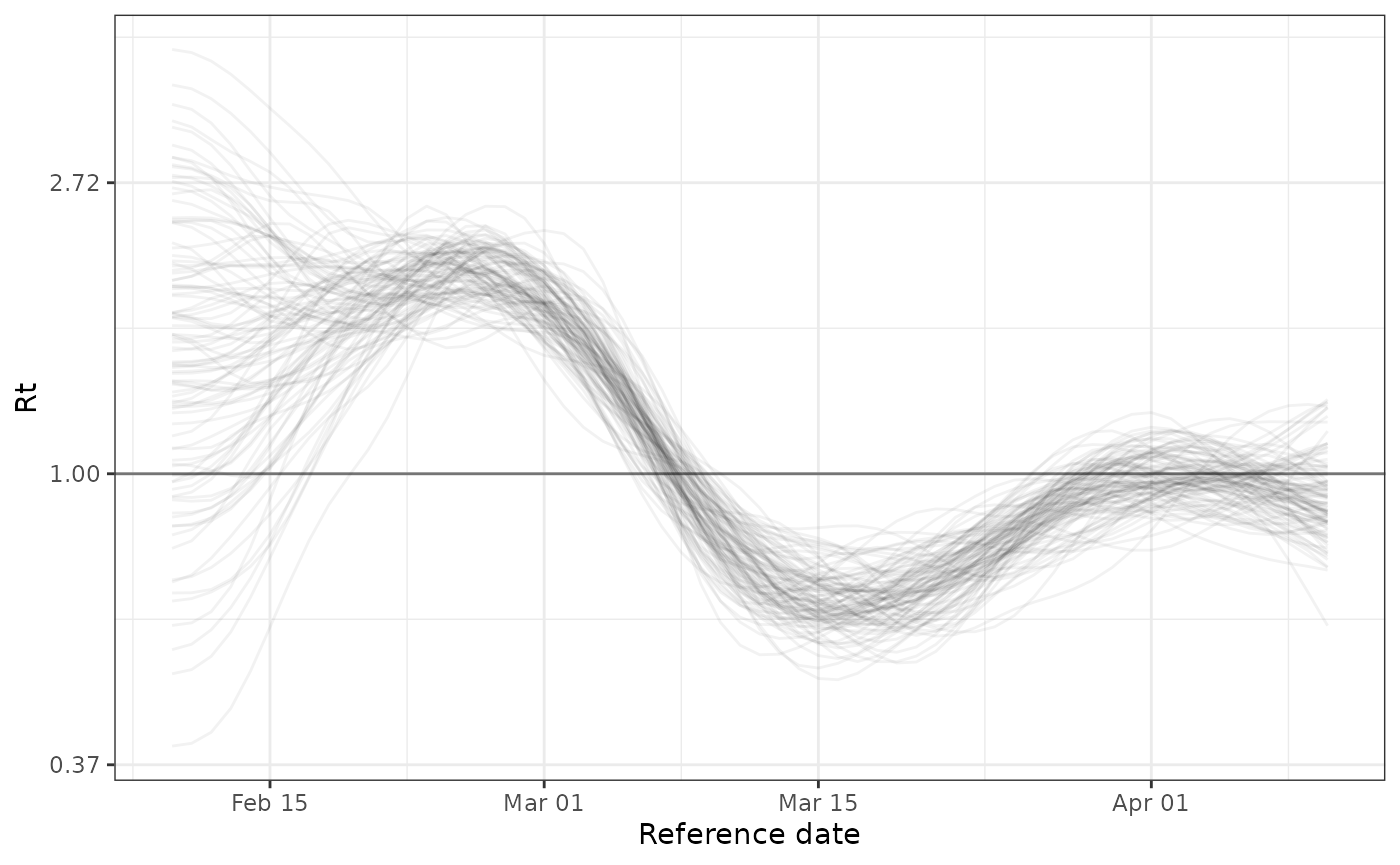
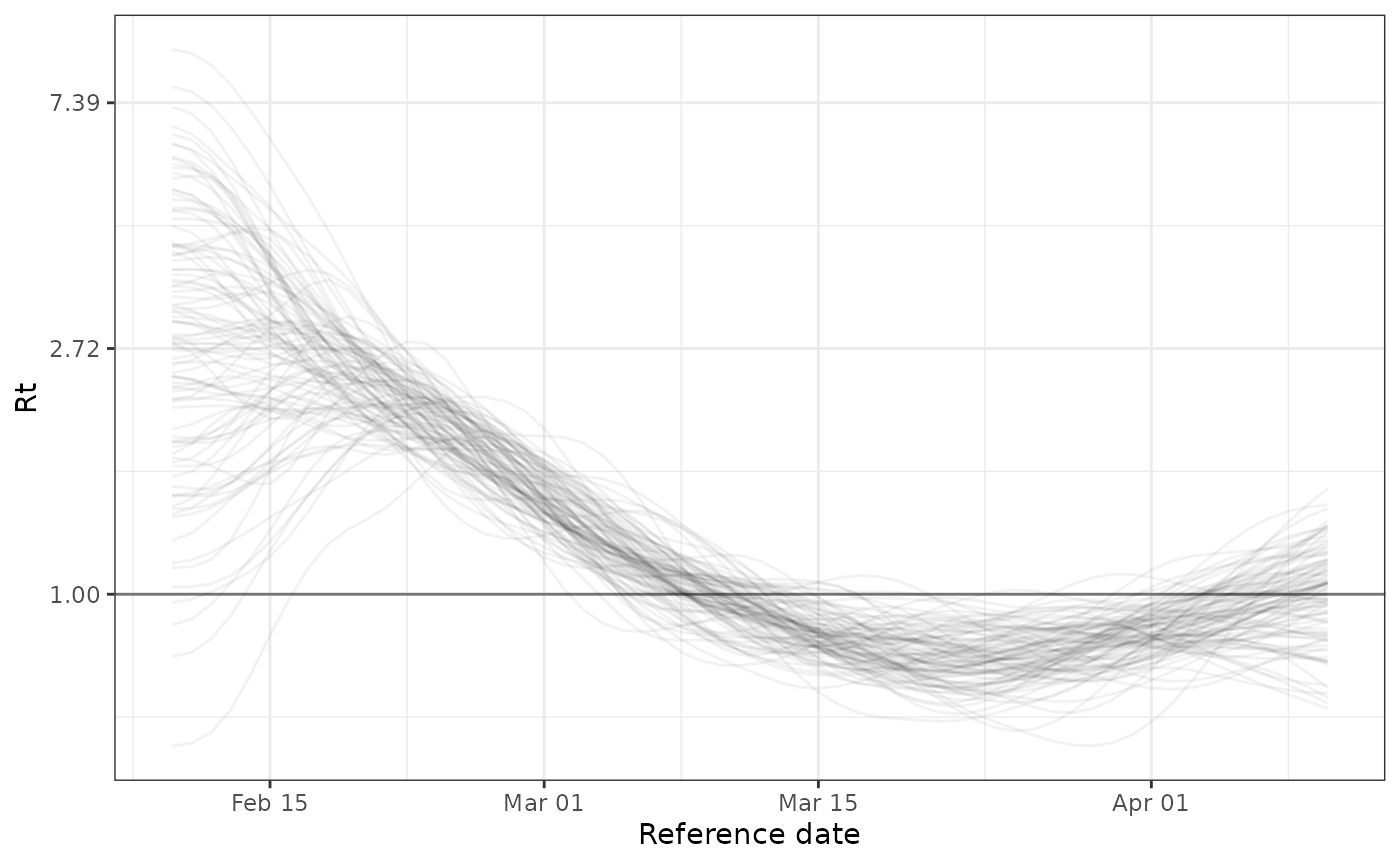
Deploying to gh-pages from @ zsusswein/cfa-gam-rt@5d7f019ca9e8a77d2bcbd57f7bd2ab68133076cc 🚀

diff --git a/articles/RtGam.html b/articles/RtGam.html
@@ -85,14 +85,14 @@ loaded. This vignette uses <code>ggplot2</code>.</p>
 incident case counts. For demonstration purposes, the package includes a
 simulated epidemic dataset, <code>stochastic_sir_rt</code>, adapted from
 <span class="citation">Gostic et al. (2020)</span>.</p>
-<p>In this example dataset, <code>obs_incidence</code> is the vector of
-observed case counts, and <code>date</code> is the corresponding vector
-of dates. The dataset has a timeseries of 299 days that we’ll subset to
-60 days to make plotting easier.</p>
+<p>In this example dataset, <code>obs_cases</code> is the vector of
+observed case counts, and <code>reference_date</code> is the
+corresponding vector of dates. The dataset has a timeseries of 299 days
+that we’ll subset to 60 days to make plotting easier.</p>
 <div class="sourceCode" id="cb2"><pre class="downlit sourceCode r">
 <code class="sourceCode R"><span><span class="va">data</span> <span class="op">&lt;-</span> <span class="va">stochastic_sir_rt</span><span class="op">[</span><span class="fl">41</span><span class="op">:</span><span class="fl">100</span>, <span class="op">]</span></span>
 <span><span class="fu"><a href="https://ggplot2.tidyverse.org/reference/ggplot.html" class="external-link">ggplot</a></span><span class="op">(</span><span class="va">data</span><span class="op">)</span> <span class="op">+</span></span>
-<span>  <span class="fu"><a href="https://ggplot2.tidyverse.org/reference/geom_point.html" class="external-link">geom_point</a></span><span class="op">(</span><span class="fu"><a href="https://ggplot2.tidyverse.org/reference/aes.html" class="external-link">aes</a></span><span class="op">(</span><span class="va">date</span>, <span class="va">obs_incidence</span><span class="op">)</span><span class="op">)</span> <span class="op">+</span></span>
+<span>  <span class="fu"><a href="https://ggplot2.tidyverse.org/reference/geom_point.html" class="external-link">geom_point</a></span><span class="op">(</span><span class="fu"><a href="https://ggplot2.tidyverse.org/reference/aes.html" class="external-link">aes</a></span><span class="op">(</span><span class="va">reference_date</span>, <span class="va">obs_cases</span><span class="op">)</span><span class="op">)</span> <span class="op">+</span></span>
 <span>  <span class="fu"><a href="https://ggplot2.tidyverse.org/reference/ggtheme.html" class="external-link">theme_bw</a></span><span class="op">(</span><span class="op">)</span> <span class="op">+</span></span>
 <span>  <span class="fu"><a href="https://ggplot2.tidyverse.org/reference/labs.html" class="external-link">labs</a></span><span class="op">(</span>x <span class="op">=</span> <span class="st">"Reference date"</span>, y <span class="op">=</span> <span class="st">"Observed cases"</span><span class="op">)</span></span></code></pre></div>
 <p><img src="RtGam_files/figure-html/plot%20data-1.png" width="700"></p>
@@ -100,7 +100,7 @@ of dates. The dataset has a timeseries of 299 days that we’ll subset to
 timeseries.</p>
 <div class="sourceCode" id="cb3"><pre class="downlit sourceCode r">
 <code class="sourceCode R"><span><span class="fu"><a href="https://ggplot2.tidyverse.org/reference/ggplot.html" class="external-link">ggplot</a></span><span class="op">(</span><span class="va">data</span><span class="op">)</span> <span class="op">+</span></span>
-<span>  <span class="fu"><a href="https://ggplot2.tidyverse.org/reference/geom_point.html" class="external-link">geom_point</a></span><span class="op">(</span><span class="fu"><a href="https://ggplot2.tidyverse.org/reference/aes.html" class="external-link">aes</a></span><span class="op">(</span><span class="va">date</span>, <span class="va">true_rt</span><span class="op">)</span><span class="op">)</span> <span class="op">+</span></span>
+<span>  <span class="fu"><a href="https://ggplot2.tidyverse.org/reference/geom_point.html" class="external-link">geom_point</a></span><span class="op">(</span><span class="fu"><a href="https://ggplot2.tidyverse.org/reference/aes.html" class="external-link">aes</a></span><span class="op">(</span><span class="va">reference_date</span>, <span class="va">true_rt</span><span class="op">)</span><span class="op">)</span> <span class="op">+</span></span>
 <span>  <span class="fu"><a href="https://ggplot2.tidyverse.org/reference/ggtheme.html" class="external-link">theme_bw</a></span><span class="op">(</span><span class="op">)</span> <span class="op">+</span></span>
 <span>  <span class="fu"><a href="https://ggplot2.tidyverse.org/reference/labs.html" class="external-link">labs</a></span><span class="op">(</span>x <span class="op">=</span> <span class="st">"Reference date"</span>, y <span class="op">=</span> <span class="st">"True Rt"</span><span class="op">)</span> <span class="op">+</span></span>
 <span>  <span class="fu"><a href="https://ggplot2.tidyverse.org/reference/scale_continuous.html" class="external-link">scale_y_continuous</a></span><span class="op">(</span></span>
@@ -119,9 +119,14 @@ hyperparameters like the smoothing basis dimension and the penalty basis
 dimension.</p>
 <div class="sourceCode" id="cb4"><pre class="downlit sourceCode r">
 <code class="sourceCode R"><span><span class="va">fit</span> <span class="op">&lt;-</span> <span class="fu"><a href="../reference/RtGam.html">RtGam</a></span><span class="op">(</span></span>
-<span>  cases <span class="op">=</span> <span class="va">data</span><span class="op">[[</span><span class="st">"obs_incidence"</span><span class="op">]</span><span class="op">]</span>,</span>
-<span>  reference_date <span class="op">=</span> <span class="va">data</span><span class="op">[[</span><span class="st">"date"</span><span class="op">]</span><span class="op">]</span></span>
+<span>  cases <span class="op">=</span> <span class="va">data</span><span class="op">[[</span><span class="st">"obs_cases"</span><span class="op">]</span><span class="op">]</span>,</span>
+<span>  reference_date <span class="op">=</span> <span class="va">data</span><span class="op">[[</span><span class="st">"reference_date"</span><span class="op">]</span><span class="op">]</span></span>
 <span><span class="op">)</span></span>
+<span><span class="co">#&gt; <span style="color: #BBBB00;">!</span> k-index for one or more smooths is below 1</span></span>
+<span><span class="co">#&gt; <span style="color: #00BBBB;">•</span> k-index: <span style="color: #0000BB;">0.752</span></span></span>
+<span><span class="co">#&gt; <span style="color: #00BBBB;">•</span> Associated p-value: <span style="color: #0000BB;">0.03</span></span></span>
+<span><span class="co">#&gt; <span style="color: #BBBB00;">!</span> Suggests potential unmodeled residual trend. Inspect model and/or consider</span></span>
+<span><span class="co">#&gt;   increasing `k`</span></span>
 <span><span class="fu"><a href="https://rdrr.io/r/base/print.html" class="external-link">print</a></span><span class="op">(</span><span class="va">fit</span><span class="op">)</span></span>
 <span><span class="co">#&gt; ===============================</span></span>
 <span><span class="co">#&gt; Fitted RtGam model object (gam)</span></span>
@@ -129,7 +134,7 @@ dimension.</p>
 <span><span class="co">#&gt; </span></span>
 <span><span class="co">#&gt; Model type: Adaptive (m = 3)</span></span>
 <span><span class="co">#&gt; Specified maximum smoothing basis dimension: 25 </span></span>
-<span><span class="co">#&gt; Family: Negative Binomial(11.704) </span></span>
+<span><span class="co">#&gt; Family: Negative Binomial(4.741) </span></span>
 <span><span class="co">#&gt; Link function: log</span></span>
 <span><span class="co">#&gt; ===============================</span></span>
 <span><span class="co">#&gt; </span></span>
@@ -146,8 +151,8 @@ setting <code>m</code> to 1. See <code><a href="../reference/smooth_dim_heuristi
 dimensions are set and when to change them.</p>
 <div class="sourceCode" id="cb5"><pre class="downlit sourceCode r">
 <code class="sourceCode R"><span><span class="va">fit_non_adaptive</span> <span class="op">&lt;-</span> <span class="fu"><a href="../reference/RtGam.html">RtGam</a></span><span class="op">(</span></span>
-<span>  cases <span class="op">=</span> <span class="va">data</span><span class="op">[[</span><span class="st">"obs_incidence"</span><span class="op">]</span><span class="op">]</span>,</span>
-<span>  reference_date <span class="op">=</span> <span class="va">data</span><span class="op">[[</span><span class="st">"date"</span><span class="op">]</span><span class="op">]</span>,</span>
+<span>  cases <span class="op">=</span> <span class="va">data</span><span class="op">[[</span><span class="st">"obs_cases"</span><span class="op">]</span><span class="op">]</span>,</span>
+<span>  reference_date <span class="op">=</span> <span class="va">data</span><span class="op">[[</span><span class="st">"reference_date"</span><span class="op">]</span><span class="op">]</span>,</span>
 <span>  m <span class="op">=</span> <span class="fl">1</span></span>
 <span><span class="op">)</span></span>
 <span><span class="fu"><a href="https://rdrr.io/r/base/print.html" class="external-link">print</a></span><span class="op">(</span><span class="va">fit_non_adaptive</span><span class="op">)</span></span>
@@ -157,7 +162,7 @@ dimensions are set and when to change them.</p>
 <span><span class="co">#&gt; </span></span>
 <span><span class="co">#&gt; Model type: Non-adaptive (m = 1)</span></span>
 <span><span class="co">#&gt; Specified maximum smoothing basis dimension: 25 </span></span>
-<span><span class="co">#&gt; Family: Negative Binomial(11.702) </span></span>
+<span><span class="co">#&gt; Family: Negative Binomial(4.842) </span></span>
 <span><span class="co">#&gt; Link function: log</span></span>
 <span><span class="co">#&gt; ===============================</span></span>
 <span><span class="co">#&gt; </span></span>
@@ -180,12 +185,12 @@ timeseries of posterior predicted cases.</p>
 <div class="sourceCode" id="cb6"><pre class="downlit sourceCode r">
 <code class="sourceCode R"><span><span class="fu"><a href="https://rdrr.io/r/utils/head.html" class="external-link">head</a></span><span class="op">(</span><span class="fu"><a href="https://rdrr.io/r/stats/predict.html" class="external-link">predict</a></span><span class="op">(</span><span class="va">fit</span><span class="op">)</span><span class="op">)</span></span>
 <span><span class="co">#&gt;   reference_date .response .draw</span></span>
-<span><span class="co">#&gt; 1     2023-02-10      1244     1</span></span>
-<span><span class="co">#&gt; 2     2023-02-10      2010    86</span></span>
-<span><span class="co">#&gt; 3     2023-02-10       659    84</span></span>
-<span><span class="co">#&gt; 4     2023-02-10      1235    82</span></span>
-<span><span class="co">#&gt; 5     2023-02-10      1385    80</span></span>
-<span><span class="co">#&gt; 6     2023-02-10       744    24</span></span></code></pre></div>
+<span><span class="co">#&gt; 1     2023-02-10       849     1</span></span>
+<span><span class="co">#&gt; 2     2023-02-10      1812    86</span></span>
+<span><span class="co">#&gt; 3     2023-02-10       247    84</span></span>
+<span><span class="co">#&gt; 4     2023-02-10       217    82</span></span>
+<span><span class="co">#&gt; 5     2023-02-10       826    80</span></span>
+<span><span class="co">#&gt; 6     2023-02-10       320    24</span></span></code></pre></div>
 <p>Calling <code>plot</code> on the fitted model object also draws
 posterior samples and plots them against the provided timeseries of
 cases.</p>
@@ -238,7 +243,7 @@ to adjust to the abrupt increase in <span class="math inline">\(R_t\)</span> in 
 <span>  mean_delay <span class="op">=</span> <span class="fl">0</span>,</span>
 <span>  gi_pmf <span class="op">=</span> <span class="va">sir_gt_pmf</span></span>
 <span><span class="op">)</span> <span class="op">+</span></span>
-<span>  <span class="fu"><a href="https://ggplot2.tidyverse.org/reference/geom_point.html" class="external-link">geom_point</a></span><span class="op">(</span><span class="fu"><a href="https://ggplot2.tidyverse.org/reference/aes.html" class="external-link">aes</a></span><span class="op">(</span><span class="va">date</span>, <span class="va">true_rt</span><span class="op">)</span>, data <span class="op">=</span> <span class="va">data</span><span class="op">)</span></span></code></pre></div>
+<span>  <span class="fu"><a href="https://ggplot2.tidyverse.org/reference/geom_point.html" class="external-link">geom_point</a></span><span class="op">(</span><span class="fu"><a href="https://ggplot2.tidyverse.org/reference/aes.html" class="external-link">aes</a></span><span class="op">(</span><span class="va">reference_date</span>, <span class="va">true_rt</span><span class="op">)</span>, data <span class="op">=</span> <span class="va">data</span><span class="op">)</span></span></code></pre></div>
 <p><img src="RtGam_files/figure-html/plot%20Rt%20against%20data-1.png" width="700"></p>
 <p>Future development effort will aim to improve model performance on
 challenging datasets like this example.</p>

diff --git a/reference/stochastic_sir_rt.html b/reference/stochastic_sir_rt.html
@@ -1,11 +1,15 @@
 <!DOCTYPE html>
-<!-- Generated by pkgdown: do not edit by hand --><html lang="en"><head><meta http-equiv="Content-Type" content="text/html; charset=UTF-8"><meta charset="utf-8"><meta http-equiv="X-UA-Compatible" content="IE=edge"><meta name="viewport" content="width=device-width, initial-scale=1, shrink-to-fit=no"><title>Synthetic dataset of stochastic SIR system with known Rt — stochastic_sir_rt • RtGam</title><script src="../deps/jquery-3.6.0/jquery-3.6.0.min.js"></script><meta name="viewport" content="width=device-width, initial-scale=1, shrink-to-fit=no"><link href="../deps/bootstrap-5.3.1/bootstrap.min.css" rel="stylesheet"><script src="../deps/bootstrap-5.3.1/bootstrap.bundle.min.js"></script><link href="../deps/font-awesome-6.5.2/css/all.min.css" rel="stylesheet"><link href="../deps/font-awesome-6.5.2/css/v4-shims.min.css" rel="stylesheet"><script src="../deps/headroom-0.11.0/headroom.min.js"></script><script src="../deps/headroom-0.11.0/jQuery.headroom.min.js"></script><script src="../deps/bootstrap-toc-1.0.1/bootstrap-toc.min.js"></script><script src="../deps/clipboard.js-2.0.11/clipboard.min.js"></script><script src="../deps/search-1.0.0/autocomplete.jquery.min.js"></script><script src="../deps/search-1.0.0/fuse.min.js"></script><script src="../deps/search-1.0.0/mark.min.js"></script><script src="../deps/MathJax-3.2.2/tex-chtml.min.js"></script><!-- pkgdown --><script src="../pkgdown.js"></script><meta property="og:title" content="Synthetic dataset of stochastic SIR system with known Rt — stochastic_sir_rt"><meta name="description" content='A dataset from Gostic, Katelyn M., et al. "Practical considerations for
-measuring the effective reproductive number, Rt." PLoS Computational Biology
-16.12 (2020): e1008409. The data are simulated from a stochastic SEIR
-compartmental model.'><meta property="og:description" content='A dataset from Gostic, Katelyn M., et al. "Practical considerations for
-measuring the effective reproductive number, Rt." PLoS Computational Biology
-16.12 (2020): e1008409. The data are simulated from a stochastic SEIR
-compartmental model.'></head><body>
+<!-- Generated by pkgdown: do not edit by hand --><html lang="en"><head><meta http-equiv="Content-Type" content="text/html; charset=UTF-8"><meta charset="utf-8"><meta http-equiv="X-UA-Compatible" content="IE=edge"><meta name="viewport" content="width=device-width, initial-scale=1, shrink-to-fit=no"><title>Synthetic dataset of stochastic SIR system with known Rt — stochastic_sir_rt • RtGam</title><script src="../deps/jquery-3.6.0/jquery-3.6.0.min.js"></script><meta name="viewport" content="width=device-width, initial-scale=1, shrink-to-fit=no"><link href="../deps/bootstrap-5.3.1/bootstrap.min.css" rel="stylesheet"><script src="../deps/bootstrap-5.3.1/bootstrap.bundle.min.js"></script><link href="../deps/font-awesome-6.5.2/css/all.min.css" rel="stylesheet"><link href="../deps/font-awesome-6.5.2/css/v4-shims.min.css" rel="stylesheet"><script src="../deps/headroom-0.11.0/headroom.min.js"></script><script src="../deps/headroom-0.11.0/jQuery.headroom.min.js"></script><script src="../deps/bootstrap-toc-1.0.1/bootstrap-toc.min.js"></script><script src="../deps/clipboard.js-2.0.11/clipboard.min.js"></script><script src="../deps/search-1.0.0/autocomplete.jquery.min.js"></script><script src="../deps/search-1.0.0/fuse.min.js"></script><script src="../deps/search-1.0.0/mark.min.js"></script><script src="../deps/MathJax-3.2.2/tex-chtml.min.js"></script><!-- pkgdown --><script src="../pkgdown.js"></script><meta property="og:title" content="Synthetic dataset of stochastic SIR system with known Rt — stochastic_sir_rt"><meta name="description" content='A simulated dataset derived from Gostic, Katelyn M., et al. "Practical
+considerations for measuring the effective reproductive number, Rt."
+PLoS Computational Biology 16.12 (2020): e1008409. The data are simulated
+from a stochastic SEIR compartmental model. The original timeseries and Rt
+are available in the incidence and true_rt columns and with additional
+columns added or modified to increase noise and add a day-of-week effect.'><meta property="og:description" content='A simulated dataset derived from Gostic, Katelyn M., et al. "Practical
+considerations for measuring the effective reproductive number, Rt."
+PLoS Computational Biology 16.12 (2020): e1008409. The data are simulated
+from a stochastic SEIR compartmental model. The original timeseries and Rt
+are available in the incidence and true_rt columns and with additional
+columns added or modified to increase noise and add a day-of-week effect.'></head><body>
     <a href="#main" class="visually-hidden-focusable">Skip to contents</a>
 
 
@@ -41,10 +45,12 @@ compartmental model.'></head><body>
     </div>
 
     <div class="ref-description section level2">
-    <p>A dataset from Gostic, Katelyn M., et al. "Practical considerations for
-measuring the effective reproductive number, Rt." PLoS Computational Biology
-16.12 (2020): e1008409. The data are simulated from a stochastic SEIR
-compartmental model.</p>
+    <p>A simulated dataset derived from Gostic, Katelyn M., et al. "Practical
+considerations for measuring the effective reproductive number, Rt."
+PLoS Computational Biology 16.12 (2020): e1008409. The data are simulated
+from a stochastic SEIR compartmental model. The original timeseries and Rt
+are available in the <code>incidence</code> and <code>true_rt</code> columns and with additional
+columns added or modified to increase noise and add a day-of-week effect.</p>
     </div>
 
     <div class="section level2">
@@ -54,65 +60,57 @@ compartmental model.</p>
 
     <div class="section level2">
     <h2 id="format">Format<a class="anchor" aria-label="anchor" href="#format"></a></h2>
-    <p><code>stochastic_sir_rt</code> A data frame with 301 rows and 12 columns:</p><dl><dt>time</dt>
-<dd><p>Timestep of the discrete-time stochastic SEIR simulation</p></dd>
-
-<dt>date</dt>
-<dd><p>Added from the original Gostic, 2020 dataset. A date
-corresponding to the assigned <code>time</code>. Arbitrarily starts on January 1st,
-2023.</p></dd>
-
-<dt>S, E, I, R</dt>
-<dd><p>The realized state of the stochastic SEIR system</p></dd>
-
-<dt>dS, dEI, DIR</dt>
-<dd><p>The stochastic transition between compartments</p></dd>
-
-<dt>incidence</dt>
-<dd><p>The true incidence in the <code>I</code> compartment at time t</p></dd>
-
-<dt>obs_cases</dt>
-<dd><p>The observed number of cases at time t from
-forward-convolved incidence.</p></dd>
-
-<dt>obs_incidence</dt>
-<dd><p>Added from the original Gostic, 2020 dataset. The
-<code>incidence</code> column with added negative-binomial observation noise.
-Created with <code>set.seed(123456)</code> and the call
-<code>rnbinom(299, mu = [["incidence"]], size = 10)</code> Useful for
-testing.</p></dd>
-
-<dt>true_r0</dt>
-<dd><p>The initial R0 of the system (i.e., 2)</p></dd>
+    <p><code>stochastic_sir_rt</code> A data frame with 299 rows and 6 columns:</p><dl><dt>reference_date</dt>
+<dd><p>The date cases were observed.</p></dd>
 
 <dt>true_rt</dt>
-<dd><p>The known, true Rt of the epidemic system</p></dd>
+<dd><p>The known, true Rt of the epidemic system.</p></dd>
+
+<dt>dow</dt>
+<dd><p>The magnitude of the day-of-week effect added to the log of <code>incidence</code>.</p></dd>
+
+<dt>true_cases</dt>
+<dd><p>The true number of cases occurring on the <code>date</code> in the
+simulated system before observation noise or day-of-week effects.</p></dd>
+
+<dt>obs_cases</dt>
+<dd><p>The observed number of cases on <code>date</code> after the day-of-week
+reporting effect and observation noise have been applied to <code>true_cases</code>.</p></dd>
+
+<dt>obs_cases_no_dow</dt>
+<dd><p>The observed number of cases on <code>date</code> after observation
+noise has been applied to <code>true_cases</code>. It does not include a day of week effect.</p></dd>
 
 
 </dl></div>
     <div class="section level2">
     <h2 id="source">Source<a class="anchor" aria-label="anchor" href="#source"></a></h2>
-    <p><a href="https://github.com/cobeylab/Rt_estimation/tree/d9d8977ba8492ac1a3b8287d2f470b313bfb9f1d" class="external-link">https://github.com/cobeylab/Rt_estimation/tree/d9d8977ba8492ac1a3b8287d2f470b313bfb9f1d</a> # nolint
-<a href="https://github.com/CDCgov/cfa-epinow2-pipeline/pull/17" class="external-link">https://github.com/CDCgov/cfa-epinow2-pipeline/pull/17</a> # nolint</p>
+    <p><a href="https://github.com/cobeylab/Rt_estimation/tree/d9d8977ba8492ac1a3b8287d2f470b313bfb9f1d" class="external-link">https://github.com/cobeylab/Rt_estimation/tree/d9d8977ba8492ac1a3b8287d2f470b313bfb9f1d</a>
+<a href="https://github.com/CDCgov/cfa-epinow2-pipeline/pull/91" class="external-link">https://github.com/CDCgov/cfa-epinow2-pipeline/pull/91</a>
+<a href="https://github.com/CDCgov/cfa-epinow2-pipeline/pull/17" class="external-link">https://github.com/CDCgov/cfa-epinow2-pipeline/pull/17</a></p>
     </div>
     <div class="section level2">
     <h2 id="details">Details<a class="anchor" aria-label="anchor" href="#details"></a></h2>
     <p>This synthetic dataset has a number of desirable properties:</p><ol><li><p>The force of infection changes depending on the Rt, allowing for sudden
 changes in the Rt. This allows for modeling of sudden changes in infection
-dynamics, which might otherwise be difficult to capture. Rt estimation
-framework</p></li>
+dynamics, which might otherwise be difficult to capture.</p></li>
 <li><p>The realized Rt is known at each timepoint</p></li>
 <li><p>The dataset incorporates a simple generation interval and a reporting
 delay.</p></li>
 </ol><p>Gostic et al. benchmark the performance of a number of Rt estimation
 frameworks, providing practical guidance on how to use this dataset to
 evaluate Rt estimates.</p>
-<p>In practice, we've found that the amount of observation noise in the
-incidence and/or observed cases is often undesirably low for testing. Many
-empirical datasets are much noisier. As a result, models built with these
-settings in mind can perform poorly on this dataset or fail to converge. We
-manually add observation noise with <code>rnbinom(299, mu = stochastic_sir_rt[["obs_cases"]], size = 10)</code> and the random seed 123456 and
-store it in the <code>obs_incidence</code> column.</p>
+<p>In practice, we've found that the amount of observation noise is often
+undesirably low for testing. Many empirical datasets are much noisier. As a
+result, models built with these realistically noisy settings in mind can
+perform poorly on this dataset or fail to converge. To better reflect realistic
+settings, we manually add observation noise and a day-of-week reporting effect.</p>
+    </div>
+    <div class="section level2">
+    <h2 id="references">References<a class="anchor" aria-label="anchor" href="#references"></a></h2>
+    <p>Gostic, Katelyn M., et al. "Practical considerations for measuring the
+effective reproductive number, R t." PLoS computational biology 16.12
+(2020): e1008409.</p>
     </div>
 
   </main><aside class="col-md-3"><nav id="toc" aria-label="Table of contents"><h2>On this page</h2>

diff --git a/reference/plot.RtGam.html b/reference/plot.RtGam.html
@@ -82,9 +82,14 @@ with values closer to 0 producing more transparent lines.</p></dd>
     <div class="section level2">
     <h2 id="ref-examples">Examples<a class="anchor" aria-label="anchor" href="#ref-examples"></a></h2>
     <div class="sourceCode"><pre class="sourceCode r"><code><span class="r-in"><span><span class="va">fit</span> <span class="op">&lt;-</span> <span class="fu"><a href="RtGam.html">RtGam</a></span><span class="op">(</span></span></span>
-<span class="r-in"><span>  <span class="va">stochastic_sir_rt</span><span class="op">[[</span><span class="st">"obs_incidence"</span><span class="op">]</span><span class="op">]</span>,</span></span>
-<span class="r-in"><span>  <span class="va">stochastic_sir_rt</span><span class="op">[[</span><span class="st">"date"</span><span class="op">]</span><span class="op">]</span></span></span>
+<span class="r-in"><span>  <span class="va">stochastic_sir_rt</span><span class="op">[[</span><span class="st">"obs_cases"</span><span class="op">]</span><span class="op">]</span>,</span></span>
+<span class="r-in"><span>  <span class="va">stochastic_sir_rt</span><span class="op">[[</span><span class="st">"reference_date"</span><span class="op">]</span><span class="op">]</span></span></span>
 <span class="r-in"><span><span class="op">)</span></span></span>
+<span class="r-msg co"><span class="r-pr">#&gt;</span> <span style="color: #BBBB00;">!</span> k-index for one or more smooths is below 1</span>
+<span class="r-msg co"><span class="r-pr">#&gt;</span> <span style="color: #00BBBB;">•</span> k-index: <span style="color: #0000BB;">0.844</span></span>
+<span class="r-msg co"><span class="r-pr">#&gt;</span> <span style="color: #00BBBB;">•</span> Associated p-value: <span style="color: #0000BB;">0</span></span>
+<span class="r-msg co"><span class="r-pr">#&gt;</span> <span style="color: #BBBB00;">!</span> Suggests potential unmodeled residual trend. Inspect model and/or consider</span>
+<span class="r-msg co"><span class="r-pr">#&gt;</span>   increasing `k`</span>
 <span class="r-in"><span><span class="co"># Plot draws from the fitted model against the data</span></span></span>
 <span class="r-in"><span><span class="fu"><a href="https://rdrr.io/r/graphics/plot.default.html" class="external-link">plot</a></span><span class="op">(</span><span class="va">fit</span><span class="op">)</span></span></span>
 <span class="r-plt img"><img src="plot.RtGam-1.png" alt="" width="700" height="433"></span>

diff --git a/index.html b/index.html
@@ -76,7 +76,7 @@
 <code class="sourceCode R"><span><span class="kw"><a href="https://rdrr.io/r/base/library.html" class="external-link">library</a></span><span class="op">(</span><span class="va"><a href="https://github.com/cdcgov/cfa-gam-rt" class="external-link">RtGam</a></span><span class="op">)</span></span>
 <span></span>
 <span><span class="va">fit</span> <span class="op">&lt;-</span> <span class="fu"><a href="reference/RtGam.html">RtGam</a></span><span class="op">(</span></span>
-<span>        cases <span class="op">=</span> <span class="va">stochastic_sir_rt</span><span class="op">[[</span><span class="st">"obs_incidence"</span><span class="op">]</span><span class="op">]</span>,</span>
+<span>        cases <span class="op">=</span> <span class="va">stochastic_sir_rt</span><span class="op">[[</span><span class="st">"obs_cases"</span><span class="op">]</span><span class="op">]</span>,</span>
 <span>        <span class="co"># Randomly chosen date</span></span>
 <span>        reference_date <span class="op">=</span> <span class="va">stochastic_sir_rt</span><span class="op">[[</span><span class="st">"date"</span><span class="op">]</span><span class="op">]</span></span>
 <span>       <span class="op">)</span></span>

diff --git a/news/index.html b/news/index.html
@@ -34,6 +34,13 @@
     </div>
 
     <div class="section level2">
+<h2 class="pkg-version" data-toc-text="0.3.0" id="rtgam-v030">RtGam v0.3.0<a class="anchor" aria-label="anchor" href="#rtgam-v030"></a></h2>
+<div class="section level3">
+<h3 id="features-0-3-0">Features<a class="anchor" aria-label="anchor" href="#features-0-3-0"></a></h3>
+<ul><li>Add day of week effect to simulated timeseries (<a href="https://github.com/cdcgov/cfa-gam-rt/issues/91" class="external-link">#91</a>)</li>
+</ul></div>
+</div>
+    <div class="section level2">
 <h2 class="pkg-version" data-toc-text="0.2.0" id="rtgam-v020">RtGam v0.2.0<a class="anchor" aria-label="anchor" href="#rtgam-v020"></a></h2>
 <p>This release introduces new functionality for working with RtGam models, including S3 methods for prediction and plotting. It also includes bug fixes, improved handling of input data, and enhanced developer tooling to streamline contributions and maintenance.</p>
 <div class="section level3">

diff --git a/reference/sir_gt_pmf.html b/reference/sir_gt_pmf.html
@@ -72,6 +72,12 @@ distribution. We produce the PMF using
 https://doi.org/10.1101/2024.01.12.24301247 for more information on
 double-censoring biases and corrections.</p>
     </div>
+    <div class="section level2">
+    <h2 id="references">References<a class="anchor" aria-label="anchor" href="#references"></a></h2>
+    <p>Gostic, Katelyn M., et al. "Practical considerations for measuring the
+effective reproductive number, R t." PLoS computational biology 16.12
+(2020): e1008409.</p>
+    </div>
 
   </main><aside class="col-md-3"><nav id="toc" aria-label="Table of contents"><h2>On this page</h2>
     </nav></aside></div>
